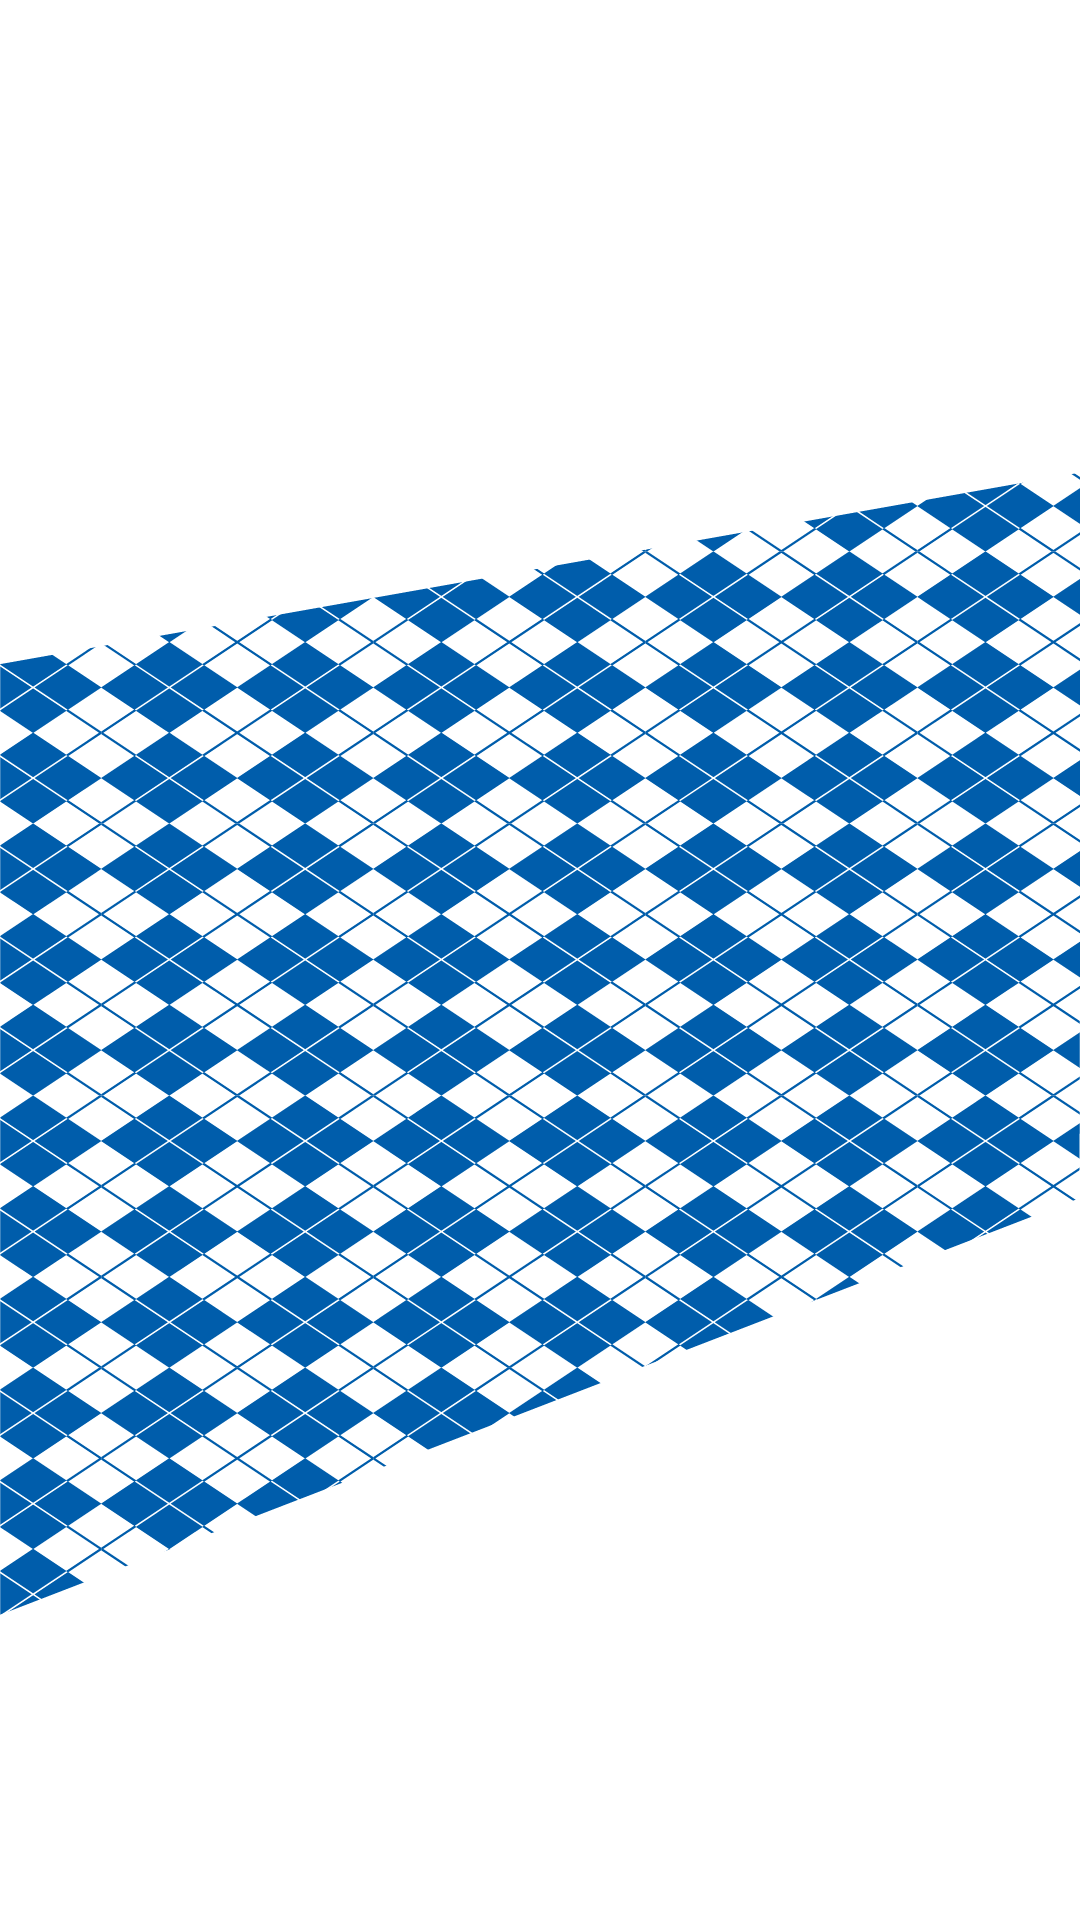
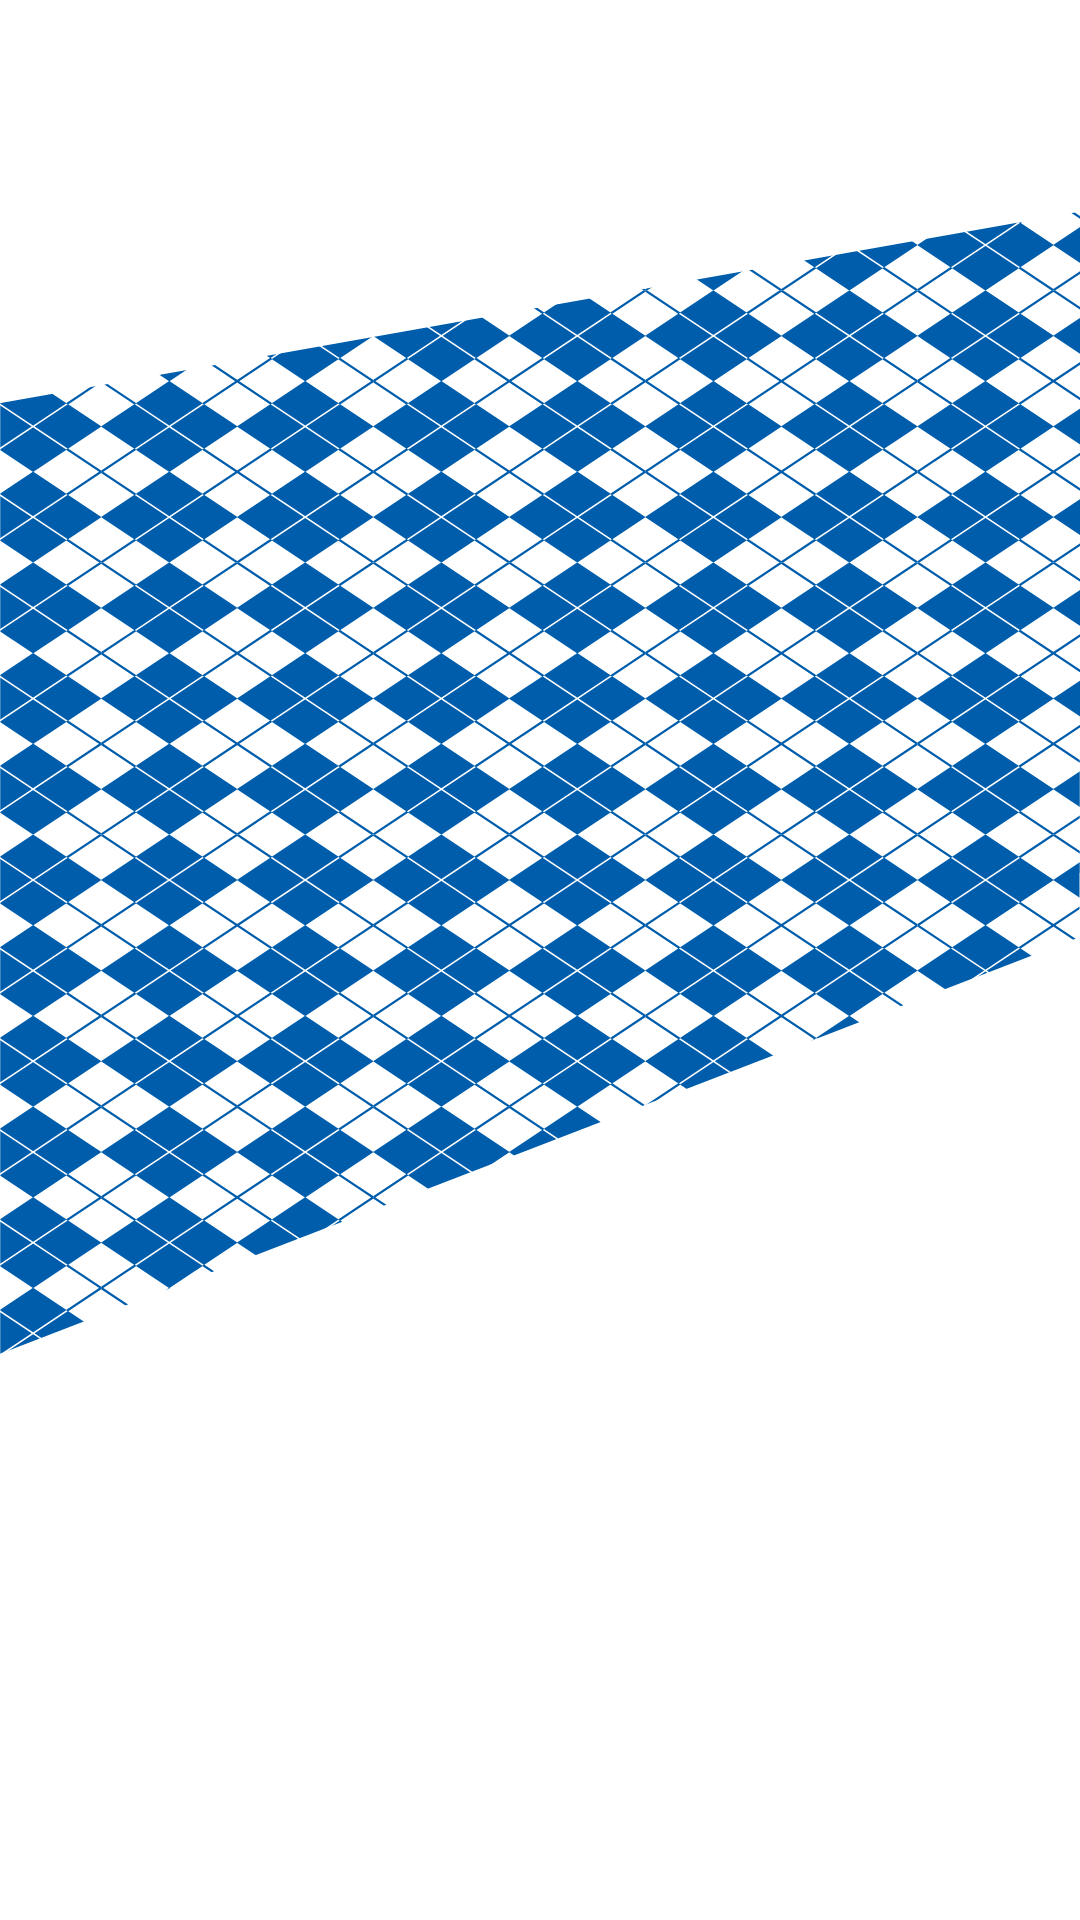
Update image positions, improve scroll positioning

Changed region(s): [[0.0, 0.0938, 1.0, 0.8438]]

diff --git a/index.html b/index.html
@@ -168,7 +168,7 @@
       }
 
       #group5 {
-        z-index: 5; /* */
+        z-index: 2; /* */
       }
       #group5 .parallax__layer--base {
         background: transparent;
@@ -292,14 +292,14 @@
           <img src="images/Text03.png" width="1080" height="1920" alt="" />
           <!-- TEXT 3 -->
         </div>
-      </div>
-
-      <!-- GROUP 5 -->
-      <div id="group5" class="parallax__group">
         <div class="parallax__layer parallax__layer--base_2">
           <img src="images/XImage03.png" width="1080" height="1920" alt="" />
           <!-- IMAGE 3 -->
         </div>
+      </div>
+
+      <!-- GROUP 5 -->
+      <div id="group5" class="parallax__group">
 
         <div class="parallax__layer parallax__layer--base_4">
           <img src="images/XBkgd04.png" width="1080" height="2500" alt="" />
